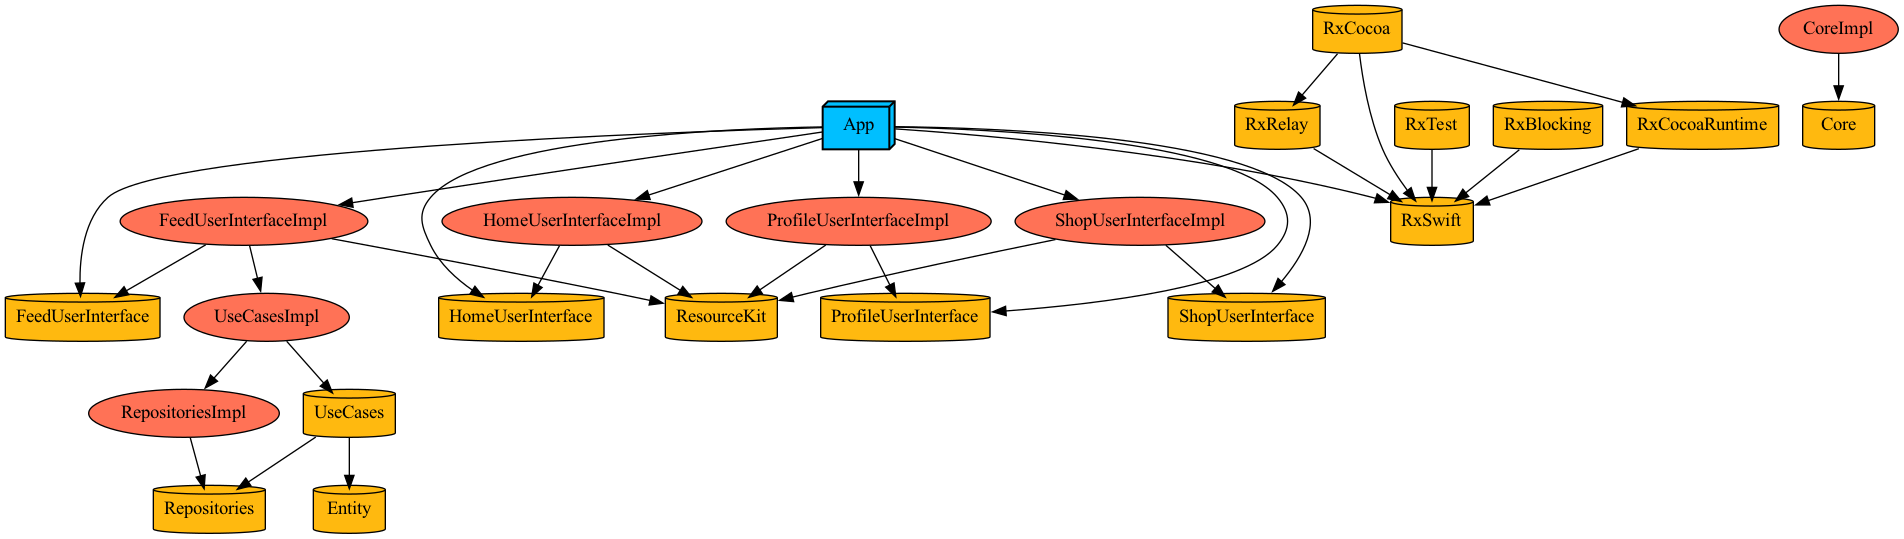
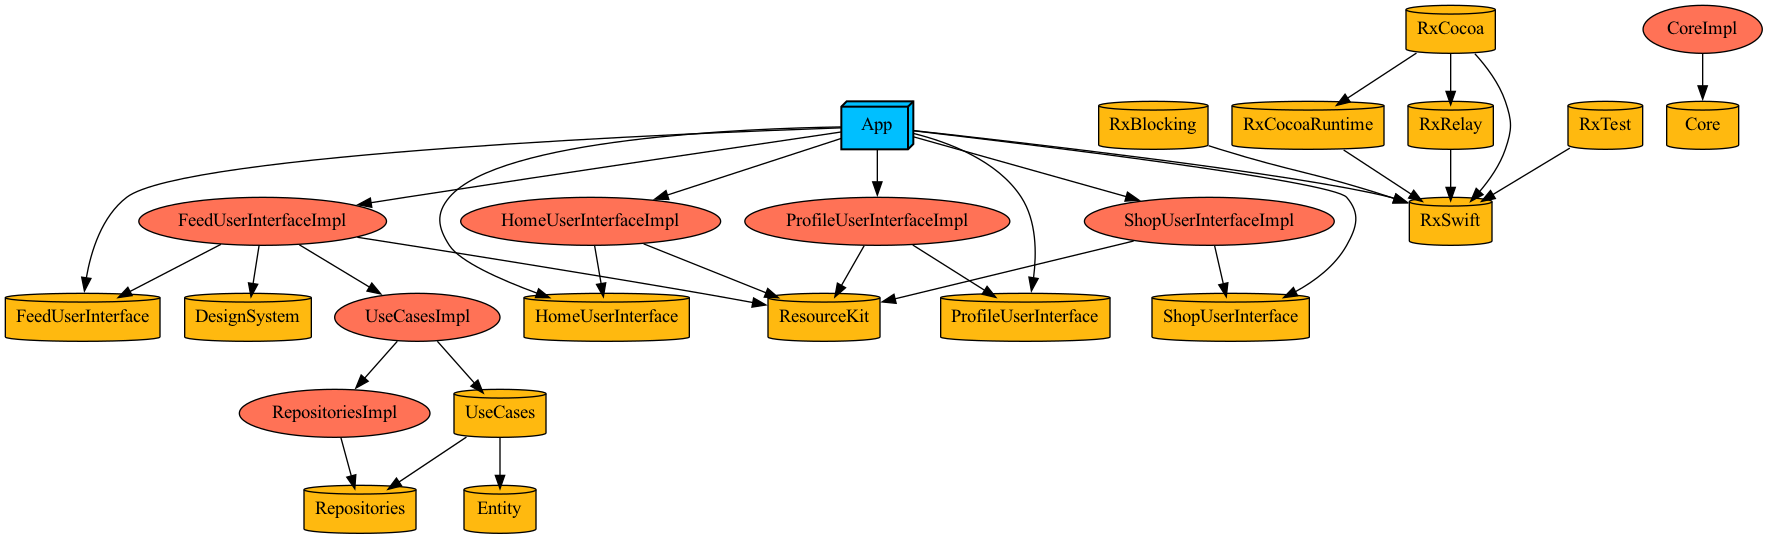
[FEAT] `Presenter` Layer에 `DesignSystem` 의존성 추가

diff --git a/Plugins/UtilityPlugin/ProjectDescriptionHelpers/Dependency+Project.swift b/Plugins/UtilityPlugin/ProjectDescriptionHelpers/Dependency+Project.swift
@@ -34,6 +34,8 @@ extension TargetDependency {
   public struct Data {
     public struct Repositories {}
   }
+  
+  public struct DesignSystem {}
 }
 
 public extension TargetDependency.Core {
@@ -182,4 +184,16 @@ public extension TargetDependency.ThirdParty {
   static let RxCocoa = TargetDependency.external(name: "RxCocoa")
   static let RxGesture = TargetDependency.external(name: "RxGesture")
   static let SnapKit = TargetDependency.external(name: "SnapKit")
+}
+
+public extension TargetDependency.DesignSystem {
+  static let folderName = "DesignSystem"
+  static func project(name: String) -> TargetDependency {
+    return .project(
+      target: "\(name)",
+      path: .relativeToRoot("\(folderName)")
+    )
+  }
+  
+  static let Implement = project(name: "DesignSystem")
 }

diff --git a/Features/Feed/FeedUserInterface/Implement/View/FeedViewController.swift b/Features/Feed/FeedUserInterface/Implement/View/FeedViewController.swift
@@ -9,6 +9,7 @@
 import UIKit
 import ResourceKit
 import FeedUserInterface
+import DesignSystem
 
 public final class FeedViewController: UIViewController {
   
@@ -31,9 +32,8 @@ public final class FeedViewController: UIViewController {
     return imageView
   }()
   
-  let originLabel: UILabel = {
-    let label = UILabel()
-    label.translatesAutoresizingMaskIntoConstraints = false
+  let originLabel: BaseLabel = {
+    let label = BaseLabel()
     label.text = "ABCDEFGHIJK"
     label.font = .systemFont(ofSize: 20, weight: .regular)
     label.textAlignment = .center

diff --git a/DesignSystem/Sources/BaseComponents/BaseLabel.swift b/DesignSystem/Sources/BaseComponents/BaseLabel.swift
@@ -1,0 +1,26 @@
+//
+//  BaseLabel.swift
+//  DesignSystem
+//
+//  Created by 구본의 on 2023/09/01.
+//  Copyright © 2023 com.boni. All rights reserved.
+//
+
+import UIKit
+
+public class BaseLabel: UILabel {
+  
+  public override init(frame: CGRect) {
+    super.init(frame: frame)
+    initialize()
+  }
+  
+  required init?(coder aDecoder: NSCoder) {
+    fatalError("init(coder:) has not been implemented")
+  }
+  
+  public func initialize() {
+    // Override here
+    translatesAutoresizingMaskIntoConstraints = false
+  }
+}

diff --git a/DesignSystem/Project.swift b/DesignSystem/Project.swift
@@ -1,0 +1,20 @@
+//
+//  Project.swift
+//  ProjectDescriptionHelpers
+//
+//  Created by 구본의 on 2023/09/01.
+//
+
+import ProjectDescription
+import ProjectDescriptionHelpers
+
+let infoPlist: [String: InfoPlist.Value] = [
+  "CFBundleDevelopmentRegion": "ko_KR"
+]
+
+let project = Project.framework(
+  name: "DesignSystem",
+  platform: .iOS,
+  iOSTargetVersion: "15.0",
+  infoPlist: infoPlist
+)

diff --git a/Features/Feed/FeedUserInterface/Project.swift b/Features/Feed/FeedUserInterface/Project.swift
@@ -18,6 +18,7 @@ let project = Project.invertedDualTargetProject(
   ],
   implementDependencies: [
     .ResourceKit.Implement,
+    .DesignSystem.Implement,
     .Domain.UseCases.Implement
   ]
 )
